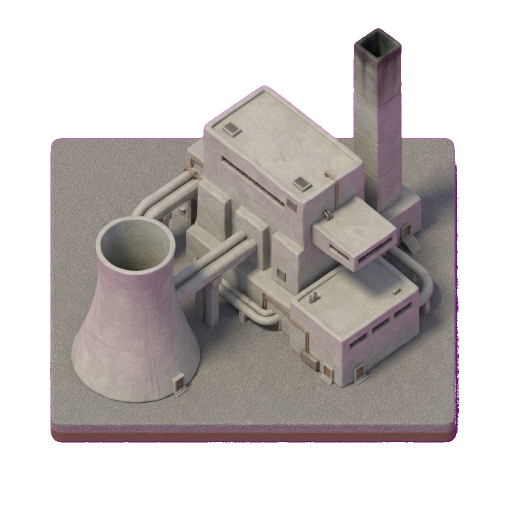
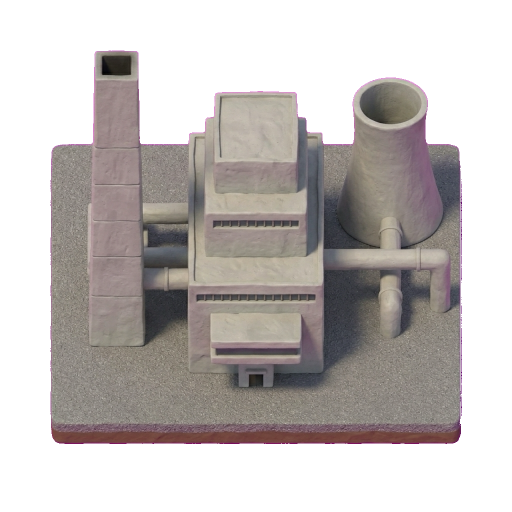
Big plants: round 2 art, every design facing front
The first round came out in a three-quarter view; the game's buildings
face straight on. P1, P2, W1, W2, W3, S1 and S2 are redrawn facing
front (P3 and S3 already were), and the review page shows the nine.

Changed region(s): [[0.0938, 0.0312, 0.9062, 0.875]]

diff --git a/art/clay-set/bigplants.html b/art/clay-set/bigplants.html
@@ -33,46 +33,45 @@
 </style>
 </head>
 <body>
-<h1>Big plants: art candidates (round 1)</h1>
+<h1>Big plants: art candidates (round 2, facing front)</h1>
 <p class="sub">Three styles for each of the three big plants: <b>heritage</b> (brick, slate), <b>brutalist</b> (raw concrete) and <b>modern</b> (white, clean). Each is shown large, then at game size next to houses already in the game. Mark Yes or No, add a note, then <b>Copy feedback</b> at the bottom and paste it to me. Or just tell me the codes. You can pick a different style for each plant.</p>
 <ul>
   <li><b>Nothing here is in the game.</b> The plants still use the code-drawn stand-ins until you pick.</li>
   <li><b>What code will add</b>, as on the stand-ins: smoke and steam from the stacks and cooling tower, turning skimmer arms on the sewage pools (the pools are deliberately bare, with just a centre post), ripples in open water, and the pump's intake pipe running to whichever side the water is on.</li>
-  <li><b>The camera is wrong on most of these</b> (owner's feedback): P1, P2, W1, W2, W3, S1 and S2 came out in a three-quarter, isometric view, where the game's buildings face straight on. P3 and S3 are in the right view. <b>P4 is P2 redone facing front</b>, with a stricter prompt, to show the fix works. Judge the others for their style and contents; the ones you like get redrawn facing front.</li>
-  <li>12 paid images so far (2 references, 9 designs, 1 front-facing redo): all of the 12 you approved. Redrawing the rest facing front needs your go-ahead.</li>
+  <li><b>Round 2: every design now faces front</b>, like the game's own buildings. The first round came out in a three-quarter view (owner's feedback); P1, P2, W1, W2, W3, S1 and S2 were redrawn, and P3 and S3 were already right.</li>
+  <li><b>What a pick still needs:</b> on a few (P1, P2, W1, W2, S2) the ground slab is shorter than standard because the buildings are tall. That is fixed when the pick is cut out for the game, by measuring the slab; if one resists, it is one more paid redraw, and I'd ask first.</li>
+  <li>18 paid images so far: 2 references, 9 first-round designs, 7 front-facing redraws.</li>
 </ul>
 
 <h2>Large power plant (3×3)</h2>
 <div class="row">
   <figure data-img="power-heritage" data-n="3"><div class="big"><img src="big-review/power-heritage.png" alt=""></div><canvas></canvas>
-    <figcaption><span class="code">P1</span><span class="style">Heritage</span><div class="note">Red-brick turbine hall and boiler house, two brick chimneys, coal pile with a conveyor. Smoke from both chimneys.</div></figcaption></figure>
+    <figcaption><span class="code">P1</span><span class="style">Heritage</span><div class="note">A wide red-brick turbine hall with arched windows, the boiler house behind, two brick chimneys, a gatehouse and a coal pile. Smoke from both chimneys.</div></figcaption></figure>
   <figure data-img="power-brutalist" data-n="3"><div class="big"><img src="big-review/power-brutalist.png" alt=""></div><canvas></canvas>
-    <figcaption><span class="code">P2</span><span class="style">Brutalist</span><div class="note">Stepped concrete boiler house with a cantilevered control room, square stack, cooling tower, pipe bridges. Steam from the tower, smoke from the stack.</div></figcaption></figure>
+    <figcaption><span class="code">P2</span><span class="style">Brutalist</span><div class="note">Stepped concrete boiler house with the control room over the entrance, square stack, cooling tower, straight pipe bridges. Steam from the tower, smoke from the stack.</div></figcaption></figure>
   <figure data-img="power-modern" data-n="3"><div class="big"><img src="big-review/power-modern.png" alt=""></div><canvas></canvas>
-    <figcaption><span class="code">P3</span><span class="style">Modern</span><div class="note">Two white turbine halls, three steel stacks, a row of cooling fans (these could spin), transformer yard, glass control building. Closest to the game's usual camera.</div></figcaption></figure>
-  <figure data-img="power-brutalist-front" data-n="3"><div class="big"><img src="big-review/power-brutalist-front.png" alt=""></div><canvas></canvas>
-    <figcaption><span class="code">P4</span><span class="style">Brutalist, facing front</span><div class="note">P2 redone in the game's own view: stepped boiler house with the control room over the entrance, square stack, cooling tower, straight pipe bridges. This is the camera the redraws would use.</div></figcaption></figure>
+    <figcaption><span class="code">P3</span><span class="style">Modern</span><div class="note">Two white turbine halls, three steel stacks, a row of cooling fans (these could spin), transformer yard, glass control building.</div></figcaption></figure>
 </div>
 
 <h2>Water pump (2×2, beside water)</h2>
 <p class="sub">The pump can face water on any side, so the art has no intake of its own: code draws the pipe from the plant into the water, as on the stand-in.</p>
 <div class="row">
   <figure data-img="pump-heritage" data-n="2"><div class="big"><img src="big-review/pump-heritage.png" alt=""></div><canvas></canvas>
-    <figcaption><span class="code">W1</span><span class="style">Heritage</span><div class="note">Victorian brick pump hall with arched windows and a roof lantern, cast-iron pipes into a brick well. Ripples in the well.</div></figcaption></figure>
+    <figcaption><span class="code">W1</span><span class="style">Heritage</span><div class="note">Victorian brick pump hall with arched windows, stone trim and a roof lantern, cast-iron pipes into a brick well. Ripples in the well.</div></figcaption></figure>
   <figure data-img="pump-brutalist" data-n="2"><div class="big"><img src="big-review/pump-brutalist.png" alt=""></div><canvas></canvas>
-    <figcaption><span class="code">W2</span><span class="style">Brutalist</span><div class="note">Concrete pump house under a thick floating roof slab, blue pipes into a concrete drum. Ripples in the drum.</div></figcaption></figure>
+    <figcaption><span class="code">W2</span><span class="style">Brutalist</span><div class="note">Concrete pump house under a thick overhanging roof slab, blue pipes into a concrete drum. Ripples in the drum.</div></figcaption></figure>
   <figure data-img="pump-modern" data-n="2"><div class="big"><img src="big-review/pump-modern.png" alt=""></div><canvas></canvas>
-    <figcaption><span class="code">W3</span><span class="style">Modern</span><div class="note">White pump hall with a blue band, four blue pump motors on a manifold, a surge tank. No open water of its own.</div></figcaption></figure>
+    <figcaption><span class="code">W3</span><span class="style">Modern</span><div class="note">White pump hall with a blue band, four blue pump motors in a row on a manifold, a surge tank. No open water of its own.</div></figcaption></figure>
 </div>
 
 <h2>Large sewage plant (2×2)</h2>
 <div class="row">
   <figure data-img="sewage-heritage" data-n="2"><div class="big"><img src="big-review/sewage-heritage.png" alt=""></div><canvas></canvas>
-    <figcaption><span class="code">S1</span><span class="style">Heritage</span><div class="note">Brick-walled settling tanks, a brick works building, an outfall channel. Skimmer arms turn on both tanks.</div></figcaption></figure>
+    <figcaption><span class="code">S1</span><span class="style">Heritage</span><div class="note">Brick-walled settling tanks, a small brick works building, an outfall channel. Skimmer arms turn on both tanks.</div></figcaption></figure>
   <figure data-img="sewage-brutalist" data-n="2"><div class="big"><img src="big-review/sewage-brutalist.png" alt=""></div><canvas></canvas>
-    <figcaption><span class="code">S2</span><span class="style">Brutalist</span><div class="note">Concrete clarifiers, two egg-shaped digesters, a control block under a floating slab. Skimmer arms turn on both tanks.</div></figcaption></figure>
+    <figcaption><span class="code">S2</span><span class="style">Brutalist</span><div class="note">Concrete clarifiers, two egg-shaped digesters, a control block under an overhanging slab, pipes with valves. Skimmer arms turn on both tanks.</div></figcaption></figure>
   <figure data-img="sewage-modern" data-n="2"><div class="big"><img src="big-review/sewage-modern.png" alt=""></div><canvas></canvas>
-    <figcaption><span class="code">S3</span><span class="style">Modern</span><div class="note">White-rimmed clarifiers, two domed digesters, a white control building. Closest to the game's usual camera. Skimmer arms turn on both tanks.</div></figcaption></figure>
+    <figcaption><span class="code">S3</span><span class="style">Modern</span><div class="note">White-rimmed clarifiers, two domed digesters, a white control building. Skimmer arms turn on both tanks.</div></figcaption></figure>
 </div>
 
 <h2>Anything else</h2>
@@ -122,7 +121,7 @@ const HOUSES = ['res-1', 'res-1-b', 'res-2', 'com-1', 'res-1-c', 'res-2-b', 'com
 })();
 
 // ── Feedback form ────────────────────────────────────────────────────────────
-const KEY = 'city-builder-bigplants-v1';
+const KEY = 'city-builder-bigplants-v2';   // v2: the front-facing round
 let state = {};
 try { state = JSON.parse(localStorage.getItem(KEY) || '{}'); } catch { state = {}; }
 const save = () => { try { localStorage.setItem(KEY, JSON.stringify(state)); } catch {} };
